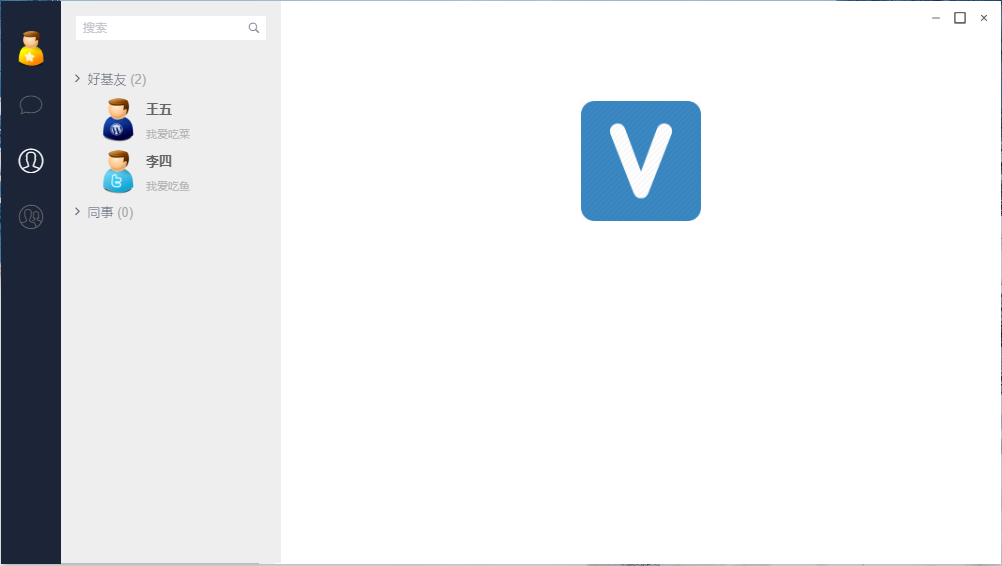
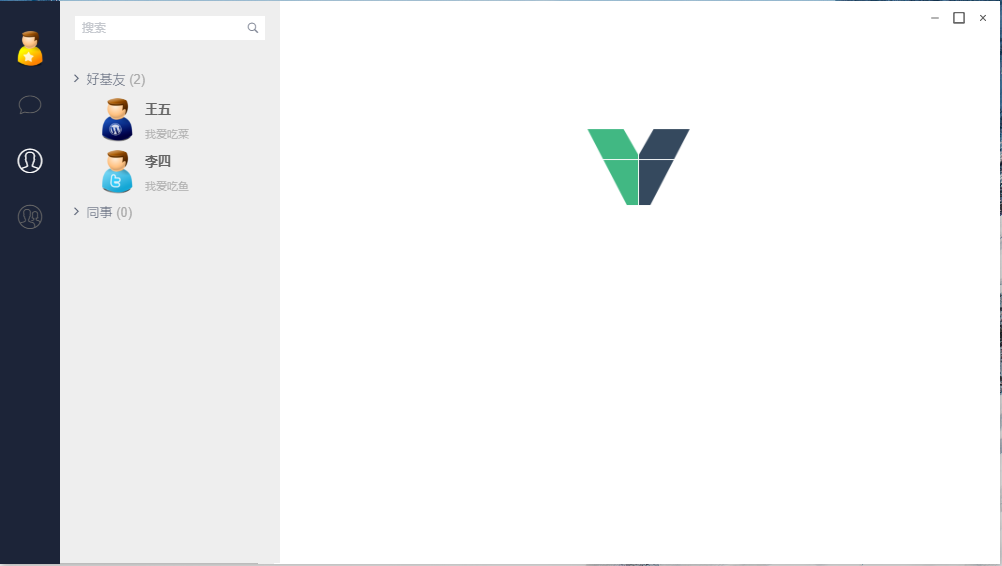
更新 readme 和 截图

diff --git a/README.md b/README.md
@@ -1,3 +1,4 @@
+### 需要合伙人，重构后端代码，懂springBoot，有开源精神的来，三年以上经营，入群联系！
 ### V-0.39 发布
 >   1. 重构一些代码。fetch 封装到HttpApiUtils.js。
 >   2. 服务端重启后客户端自动退出登录。
@@ -59,10 +60,9 @@ npm run build
 
 ### 登录测试
 > 1. 测试服务器IP:101.200.151.183,在登录界面右下角有设置的地址，默认的是本地（没有服务不好用），请知晓。
-> 2. 服务端代码在整理中，后续开源。
-> 3. 自己可以注册个用户进行测试，默认。
-> 4. 没有提供在线添加好友和管理群组的功能，后续开发，好友关系维护都在后台服务里。
-> 5. 打包好的测试文件-->[下载exe安装文件 64位](https://gitee.com/lele-666/V-IM/blob/master/v-im%20Setup%200.3.9.exe)。
+> 2. 自己可以注册个用户进行测试，默认。
+> 3. 没有提供在线添加好友和管理群组的功能，后续开发，好友关系维护都在后台服务里。
+> 4. 打包好的测试文件-->[下载exe安装文件 64位](https://gitee.com/lele-666/V-IM/blob/master/v-im%20Setup%200.3.9.exe)。
 
 
 ### 参考项目及技术
@@ -80,6 +80,7 @@ npm run build
 > 4. 需要高手加入项目，现在只有一个人维护前后端实在是吃力。
 > 5. 优化稳定性，包括 token 刷新机制调整，目前还没好的方案控制同一用户下的并发问题（出问题几率很低，但是不代表不会出问题）。
 > 6. 支持https 本身t-io是支持的，目前还没测试，后续会测试。
+> 7. 持续改进，优化！
 
 
 ### 交流QQ群
